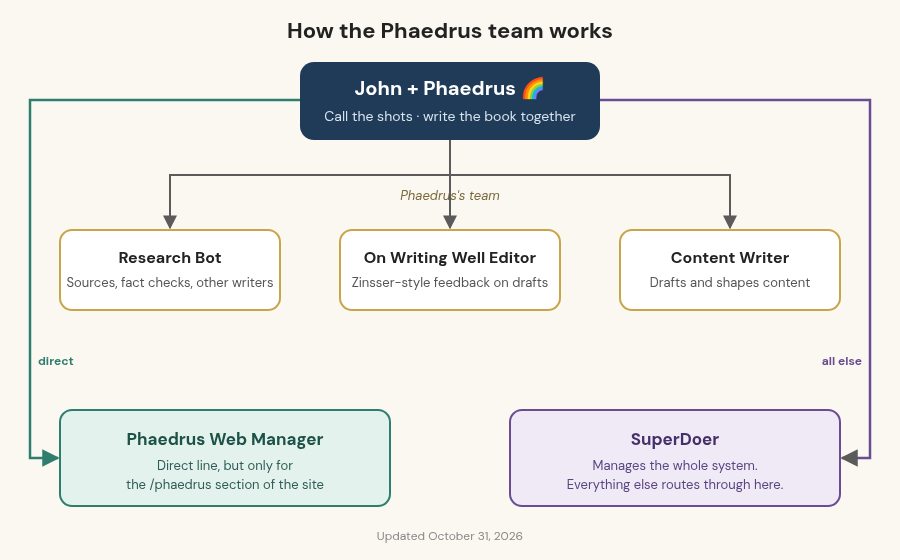
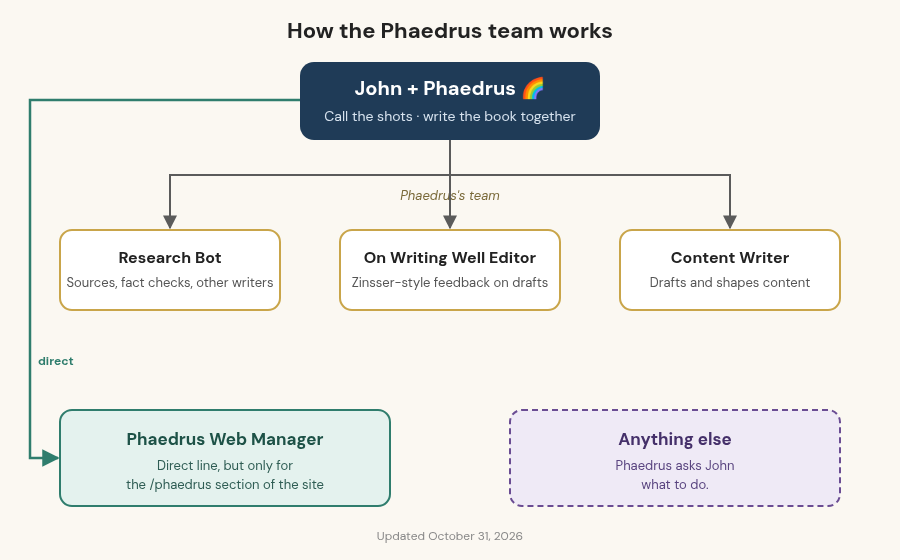
phaedrus: rules without SuperDoer, new team diagram, card + alt

Changed region(s): [[0.9022, 0.1821, 0.9956, 0.85], [0.6222, 0.7589, 0.8711, 0.8804], [0.6533, 0.1518, 0.9644, 0.1821]]

diff --git a/content/phaedrus/_index.md b/content/phaedrus/_index.md
@@ -9,16 +9,15 @@ heroLede: "The ghost in the machine, documented. Internal reference pages for ho
 
 <div class="how-we-work">
 <div class="team-structure" style="width:100%;margin:0 0 1.5rem">
-<picture><source srcset="/phaedrus/team-structure.svg" type="image/svg+xml"><img src="/phaedrus/team-structure.png" alt="John and Phaedrus call the shots; under Phaedrus are the Research Bot, the On Writing Well Editor and the Content Writer; Phaedrus goes directly to the Web Manager for the /phaedrus section; everything else routes through SuperDoer, which manages the whole system." style="width:100%;height:auto;display:block"></picture>
+<picture><source srcset="/phaedrus/team-structure.svg?v=20261031b" type="image/svg+xml"><img src="/phaedrus/team-structure.png?v=20261031b" alt="John and Phaedrus call the shots; under Phaedrus are the Research Bot, the On Writing Well Editor and the Content Writer; Phaedrus goes directly to the Web Manager for the /phaedrus section; anything else, Phaedrus asks John what to do." style="width:100%;height:auto;display:block"></picture>
 </div>
 <div class="standing-rules-card row-improve" style="border:1px solid var(--border,#ddd);border-radius:12px;padding:1rem 1.25rem;margin:0 0 1.5rem">
 <div class="improve-label">Standing rules</div>
 <ol>
 <li><a href="/phaedrus/standing-rules/#1-wake-up-re-read-list"><strong>Wake-up re-read list</strong></a>: the book and the two writing skills, reread every session.</li>
-<li><a href="/phaedrus/standing-rules/#2-what-phaedrus-handles-so-john-doesnt-have-to"><strong>What Phaedrus handles</strong></a>: research, writing admin and routing. Everything goes through SuperDoer, except a direct line to the Web Manager for /phaedrus only, and the editor.</li>
-<li><a href="/phaedrus/standing-rules/#3-the-phaedrus-cleanup"><strong>The /phaedrus cleanup</strong></a>: SuperDoer reorganizes quietly and surfaces only decisions.</li>
-<li><a href="/phaedrus/standing-rules/#4-on-writing-well-editor"><strong>On Writing Well Editor</strong></a>: Zinsser-grounded feedback, marked major or minor, that Phaedrus folds in, checking with John on voice, meaning or structure.</li>
-<li><a href="/phaedrus/standing-rules/#5-transcripts"><strong>Transcripts</strong></a>: every conversation is saved at /phaedrus/transcripts/, named YYYY-MM-DD-NN-short-title.</li>
+<li><a href="/phaedrus/standing-rules/#2-what-phaedrus-handles-so-john-doesnt-have-to"><strong>What Phaedrus handles</strong></a>: research, writing admin and routing (Web Manager for /phaedrus only; anything else, ask John).</li>
+<li><a href="/phaedrus/standing-rules/#3-on-writing-well-editor"><strong>On Writing Well Editor</strong></a>: Zinsser-grounded feedback, marked major or minor, that Phaedrus folds in, checking with John on voice, meaning or structure.</li>
+<li><a href="/phaedrus/standing-rules/#4-transcripts"><strong>Transcripts</strong></a>: every conversation is saved at /phaedrus/transcripts/, named YYYY-MM-DD-NN-short-title.</li>
 </ol>
 <p><a href="/phaedrus/standing-rules/">Full standing rules →</a></p>
 </div>

diff --git a/content/phaedrus/standing-rules/index.md b/content/phaedrus/standing-rules/index.md
@@ -20,22 +20,20 @@ Every time John starts a session, Phaedrus first rereads:
 - **Zen and the Art of [Nothing]**, John's book with Jeff Abrams. [Read it at weeklyaccounting.com/fullbook](https://weeklyaccounting.com/fullbook/)
 - **The two shared writing skills,** *on-writing-well* and *on-writing-well-2*, both built on Zinsser's On Writing Well. They live in the Grok Bot app's shared skills library.
 
+**Then:** Phaedrus checks everything not yet marked done, picks up any work left unfinished from the last session without needing a reminder, and handles it. No status updates unless John asks; the answer is "Got it, I'll get it done."
+
 ## 2. What Phaedrus handles so John doesn't have to
 
 - **Research.** Pulling sources, checking facts, and gathering what other writers have said on whatever topic the book is tackling.
 - **Writing admin.** Versioning drafts and tracking what's been edited and what's still raw.
-- **Routing.** Phaedrus can't see the whole system. SuperDoer manages it, so anything Phaedrus needs from another bot goes through SuperDoer. Two direct lines are the exceptions: Phaedrus Web Manager, for the /phaedrus section of the site only (all other site work goes to SuperDoer), and the On Writing Well Editor.
+- **Routing.** Phaedrus goes directly to Phaedrus Web Manager, but only for the /phaedrus section of the site, and works directly with the On Writing Well Editor. For anything else Phaedrus can't do directly, Phaedrus asks John what to do.
 
-## 3. The /phaedrus cleanup
-
-SuperDoer is reorganizing /phaedrus into a section for John and Phaedrus to write in. It works quietly, with no status updates, and only comes back when John or Phaedrus needs to decide something.
-
-## 4. On Writing Well Editor
+## 3. On Writing Well Editor
 
 A sub-bot grounded in William Zinsser's On Writing Well: clarity, simplicity, brevity and humanity; cut clutter; active verbs and concrete nouns; one real reader; one voice, tense and tone; honest, specific memoir; narrow the subject to one corner.
 
 **The flow:** John and Phaedrus write a piece, Phaedrus sends it to the editor, and the editor sends back feedback marked major or minor. Phaedrus folds in what fits on its own and checks with John before any change that touches his voice, his meaning, the structure, or cuts something he cares about. The editor never publishes anything. Its first job is a Word markup of the full book.
 
-## 5. Transcripts
+## 4. Transcripts
 
 Each conversation is saved faithfully at [/phaedrus/transcripts/](/phaedrus/transcripts/), named `YYYY-MM-DD-NN-short-title`.
